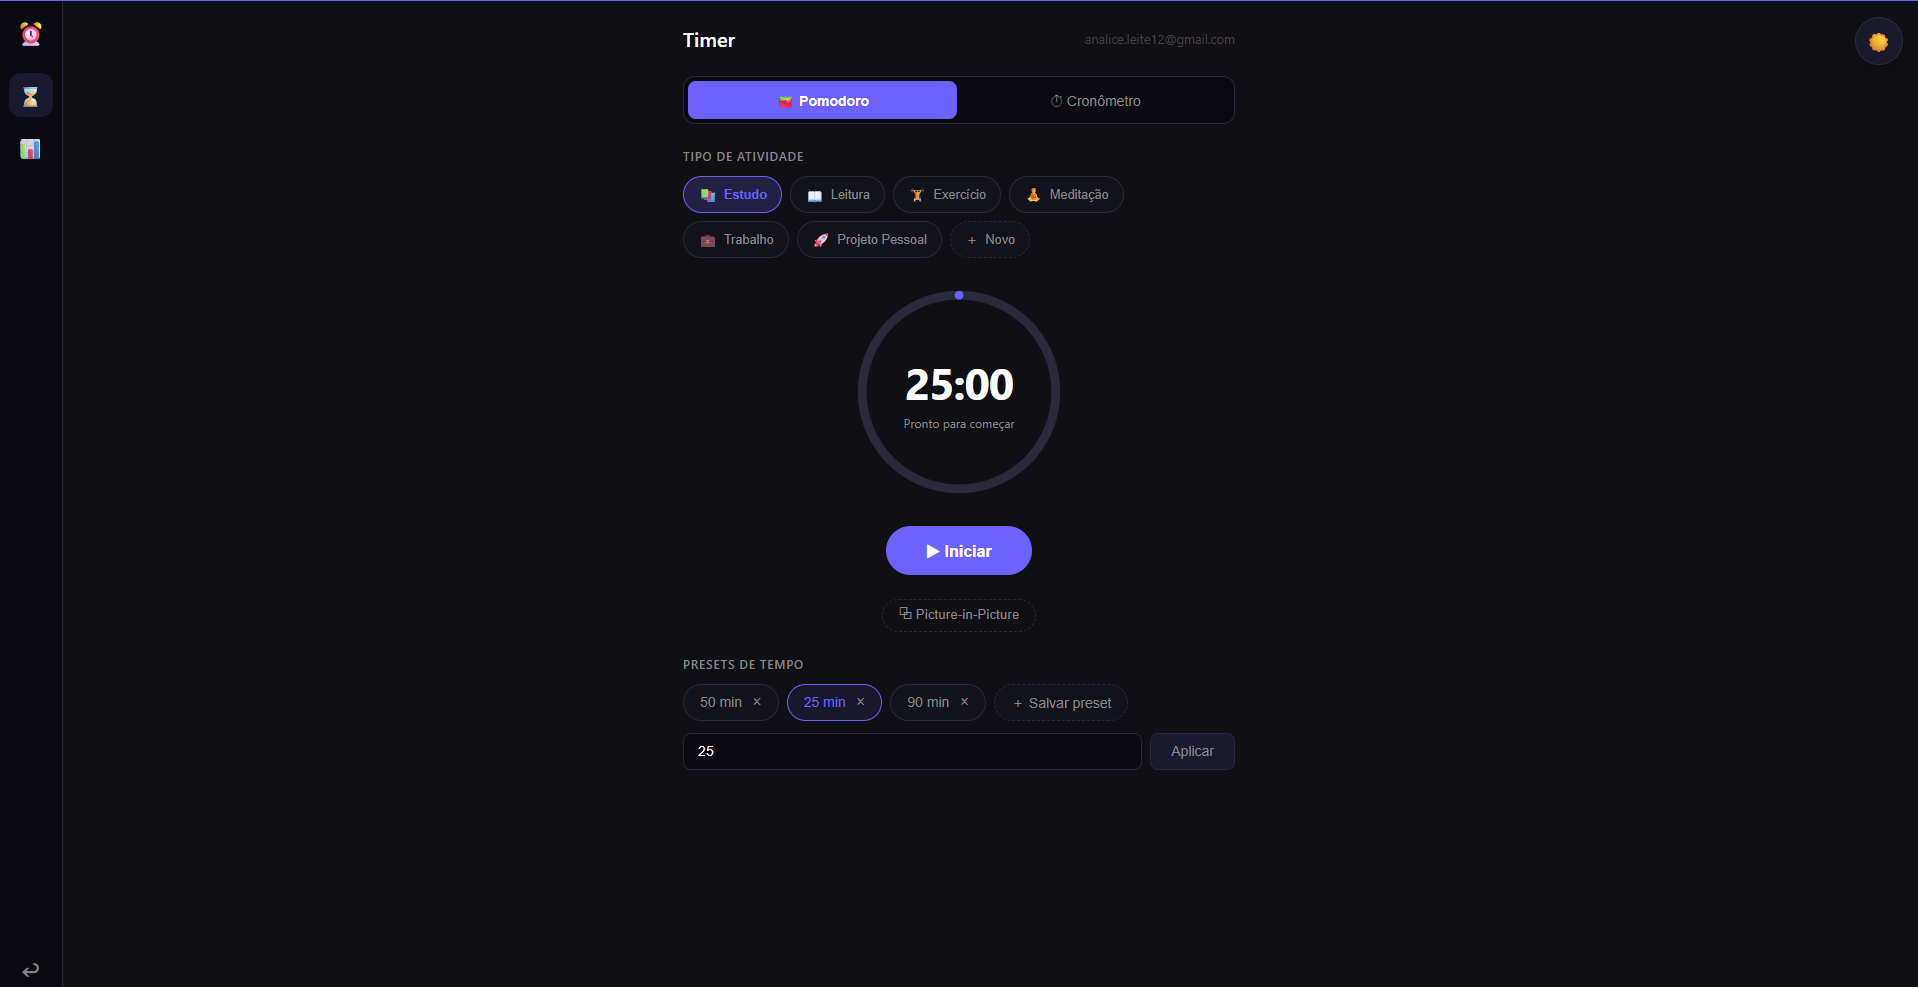
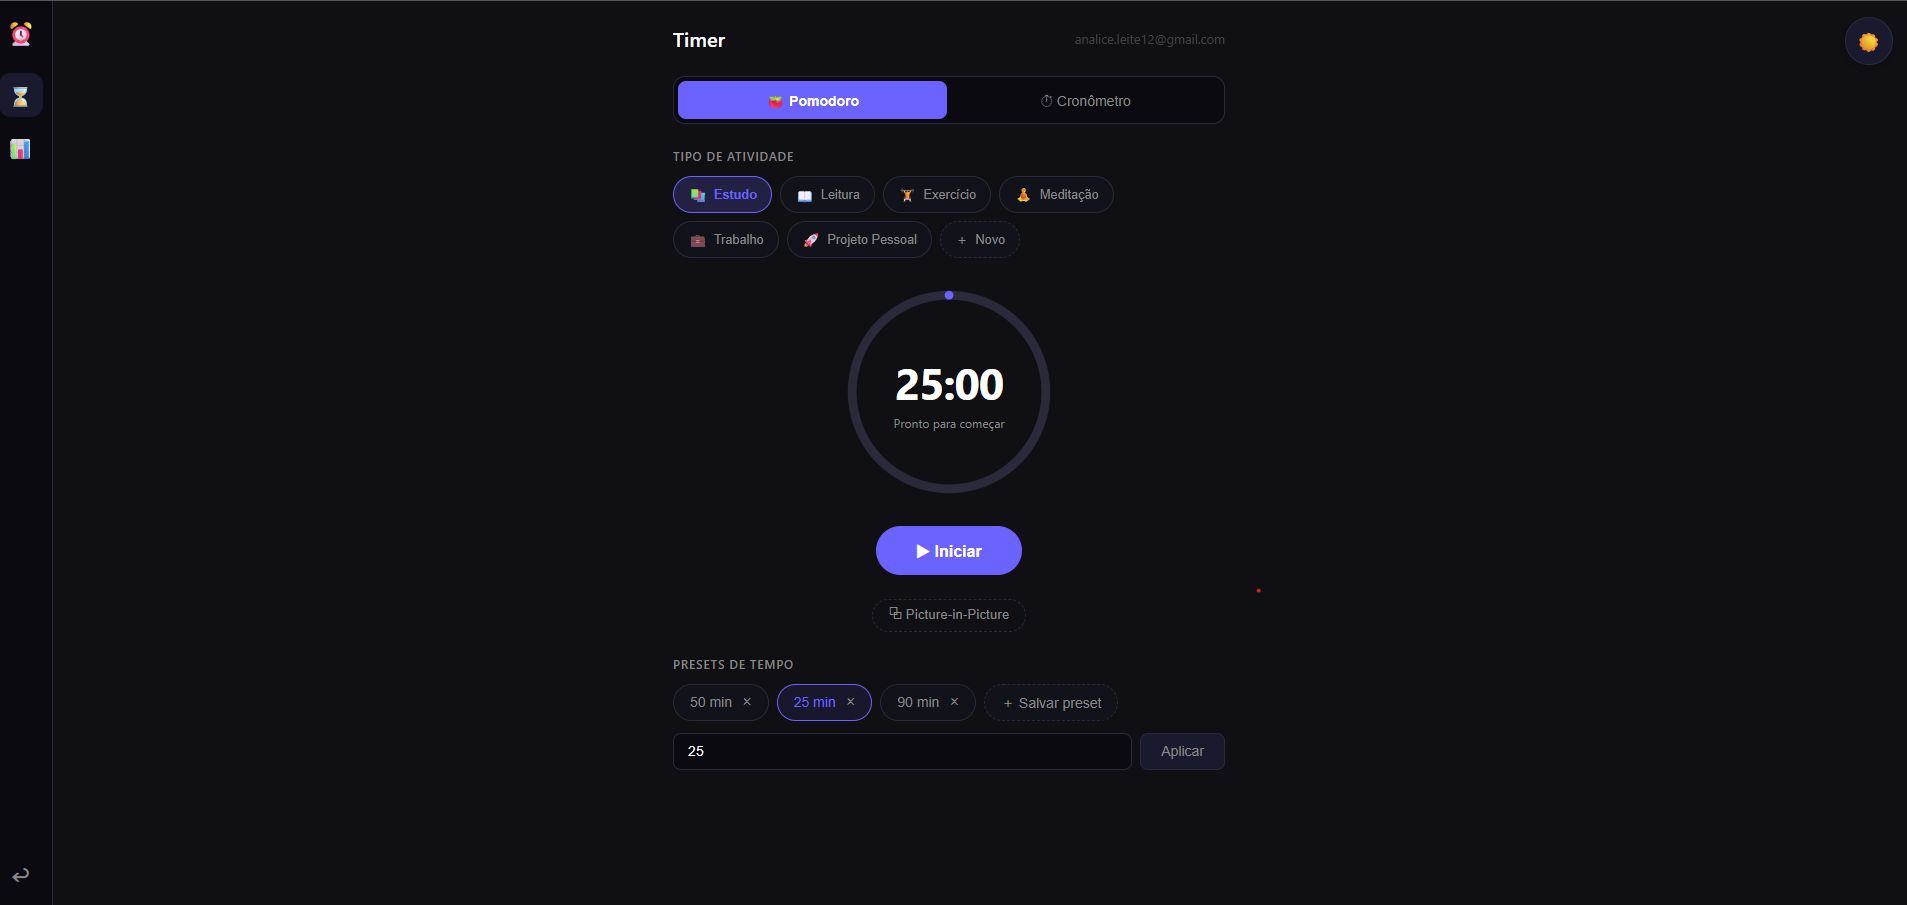
📝 docs(README): enhance image descriptions
- add detailed descriptions for login, timer, and statistics screens to improve clarity and context for users

diff --git a/README.md b/README.md
@@ -4,9 +4,15 @@ Personal productivity timer focused on consistency and clarity.
 
 ![Login](./src/assets/demo/login.png)
 
+**Login screen:** Login screen with email and password fields, a "Sign in" button, and links to create an account or reset password.
+
 ![Timer](./src/assets/demo/timer.png)
 
+**Timer screen:** Main timer view with a progress ring, controls (start/pause/stop), activity type selector, and Picture-in-Picture option.
+
 ![Statistics](./src/assets/demo/stats.png)
+
+**Statistics screen:** Statistics dashboard showing accumulated time per activity, streaks, a 70-day heatmap, and a recent sessions list.
 ---
 
 ## Features — v1.0
